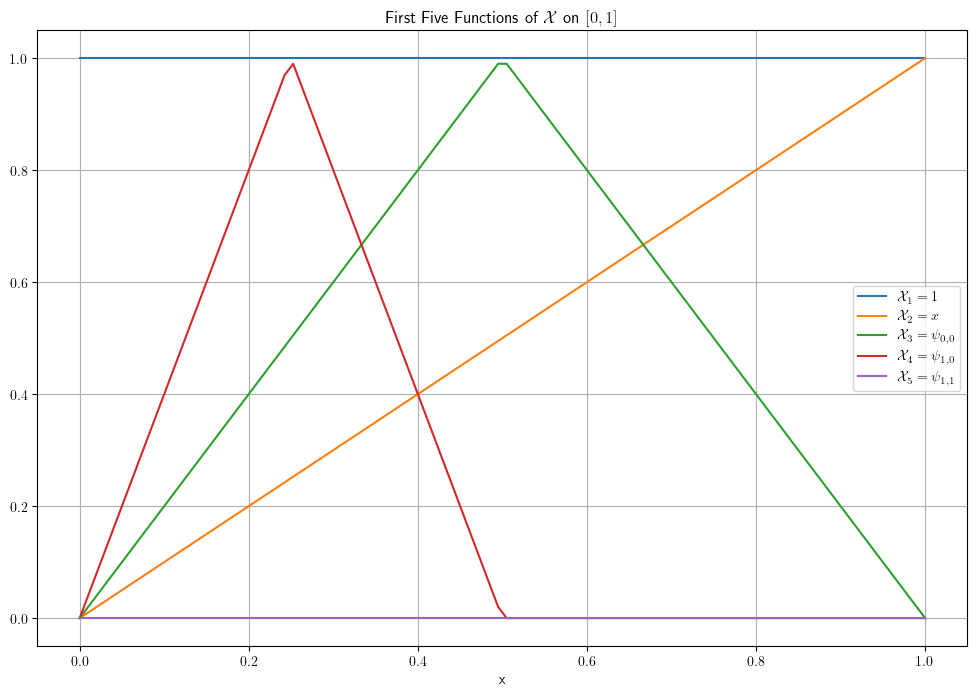
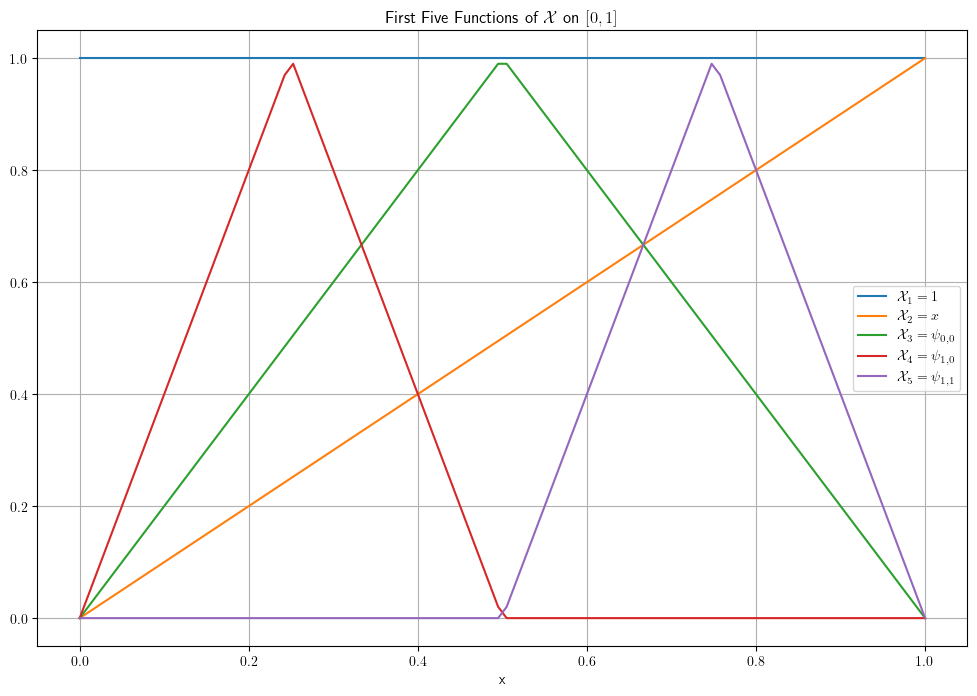
Update on Overleaf.

Changed region(s): [[0.9212, 0.875, 0.9519, 0.9052], [0.7062, 0.0905, 0.7369, 0.1207]]

diff --git a/main.tex b/main.tex
@@ -73,10 +73,48 @@ Assuming that $f \in C^4(0, 1)$, construct an improved quadrature rule which com
     \item $f(x) = \sqrt{x}$
 \end{itemize}
 Compare your numerical results with those obtained from Simpson’s rule – using a cubic approximation on each subinterval, where the cubic is chosen to agree with f at the two endpoints and the midpoint of each subinterval.
+\partbreak
+\begin{solution}
 
+    After some tweaking of coefficients in Python, I found a suitable quadrature rule which only uses slight modifications of Left and Right Reimann sums and scales the same as Simpon's 1/3 composite rule ($O(h^4)$). My proposed quadrature rule, $M_n$, is as follows:
+    \[M_n = \frac{h}{3}\left[\frac{f(0) + f(1)}{2}  + 3\sum_{k = 1}^{n-1}f(k/n)\right]\]
+    Note this is suitably scaled over $[0, 1]$, scaling like terms of the Left and Right Reimann sums by 3, and averaging the end points. The results are given below, where we take $n \to 100$. It seems as though Simpson's rule creates a jagged form of our approximation method, which implies that our proposed quadrature rule scales as Simpon's 1/3 composite rule.
+\end{solution}
+
+\begin{figure}[htbp]
+    \centering
+    \subfigure{\includegraphics[width=0.4\textwidth]{Figures/Problem3 ex.png}}
+    \hfill
+    \subfigure{\includegraphics[width=0.4\textwidth]{Figures/Problem3 sqrtx.png}}
+\end{figure}
+
+\newcommand{\scI}{\mathcal{I}}
+
+\clearpage
 \newpage
 \section{Exercise 4}
 Let $\{v_j\}_{j = 1}^\infty$ be an orthonormal basis of a Hilbert space $\scH$. Let $A$ be a bounded operator from $\scH$ to itself, with bounded inverse. Consider the sequence of vectors $w_j := Av_j$. Is $\{w_j\}_{j = 1}^\infty$ an orthonormal basis? A Schauder basis? If so, can you bound its basis constant?
+\partbreak
+\begin{solution}
+
+    We can see that $w_j = Av_j$ gives us a transformation between $w_j$ and $v_j$. Since $A$ is a bounded operator with bounded inverse, it a continuous operator, it is bijective. Therefore, for any $x \in \scH$, we can write 
+    \begin{align*}    
+        &x = \sum_{i \in \scI} \braket{x}{v_i}v_i = \sum_{i \in \scI} \braket{x}{v_i}A\inv w_i\\
+        &= A\inv\left(\sum_{i \in \scI} \braket{x}{v_i} w_i\right)\\
+        \implies & Ax = \sum_{i \in \scI} \braket{x}{v_i}w_i
+    \end{align*}
+    Since $A$ is bijective, then we can write $Ax = y$ for $y \in \scH$. We can further write
+    \begin{align*}
+        &y = \sum_{i \in \scI} \braket{A\inv y}{A\inv w_i}w_i\\
+        &= \sum_{i \in \scI} \braket{y}{(A\inv)\star A\inv w_i}w_i\\
+        &= \norm{A\inv}_2^2 \sum_{i \in \scI} \braket{y}{w_i}w_i
+    \end{align*}
+    Thus, each vector in $\scH$ can be represented with the $w_j$ vectors, implying that $w_j$ is an orthonormal basis. To prove that it is a Schauder basis, we first note that $v_j$ is a Schauder basis for the Hilbert space $\scH$, since it is an orthonormal basis (here we assume $\scH$ is separable). this implies for any $x \in \scH$, there exists unique coefficients $x_1, ...$ for which 
+    \[x = \sum_{i \in \scI} x_i v_i = \lim_{n \to \infty}\sum_{i = 1}^n x_iv_i\]
+    Since $A$ is bijective, we can multiply through to get 
+    \[Ax = \lim_{n \to \infty}\sum_{i = 1}^n x_iAv_i = \lim_{n \to \infty}\sum_{i = 1}^n x_iw_i\]
+    We can also furthermore write $y = Ax$ for $y \in \scH$. This implies that any $y \in \scH$ is expressible as a linear combination of the $w_i$ components, implying that $w_i$ is a Schauder basis. By the above calculations, we have that $\norm{A\inv}_2 = 1$, therefore, $A\inv$ is a unitary matrix.  
+\end{solution} 
 
 \newcommand{\scX}{\mathcal{X}}
 
@@ -96,14 +134,32 @@ Consider the collection of functions $\scX = \{1, x, \psi_{0, 0}, \psi_{1, 0}, \
 
     I do not like adding hand-written sketches in homework, since I find them to be too messy for any meaningful interpretation. Instead, I have included a plot of the first five functions of $\scX$ in Figure \ref{fig:Exercise5} using Python. We will next show that $\scX$ is a Schauder basis of $C([0, 1])$. That is, we need to show that there exists unique coefficients $\alpha_1, \alpha_2, ...$ for which
     \[v = \sum_{j = 1}^\infty \alpha_j \scX_j \quad \text{for all } v \in C([0, 1]).\]
-    Note that $C([0, 1])$ equipped with the sup-norm is a Banach space, since the space of continuous functions on a compact interval (the interval $[0, 1]$ is closed and bounded) is a Banach Space. This tells us that the problem is well posed. This problem is in essence an existence and uniqueness exercise; we will first show existence. 
+    Note that $C([0, 1])$ equipped with the sup-norm is a Banach space, since the space of continuous functions on a compact interval (the interval $[0, 1]$ is closed and bounded) is a Banach Space. \par
+    
+    \jump
+    Suppose we have a linear combination of $N$ of these functions, which I will denote by $p_N$. Note that, the coefficients of $p_N$ can be chosen such that at the crest of each function $\psi_{i, k}$. We will show then that $p_N \to f$ uniformly on $[0, 1]$. Let $\ep > 0$. Note that $f \in C([0, 1])$, implying it is uniformly continuous. Suppose we have, for some $N_0 \in \N$, we have that for any $|x - y| \leq 2^{-N_0}$, then $|f(x) - f(y)| < \ep$. Note that for $x \in [0, 1]$ and $N \geq N_0$, we have that 
+    \[\frac{k}{2^N} \leq x \leq \frac{k+1}{2^N},\]
+    Note these are the crests of the functions $\psi_{N,k}$ and $\psi_{N, k+1}$ respectively. Denote these two points as $y_1, y_2$. We then have the following:
+    \newpage
+    \begin{align*}
+        |p_N(x) - f(x)| &\leq |p_N(x) - p_N(y_1)| + |p_N(y_1) - f(y_1)| + |f(y_1) - f(x)| &\text{(Triangle Inequality.)}\\
+        &\leq |p_N(y_1) - p_N(y_2)| + |p_N(y_1) - f(y_1)| + |f(y_1) - f(x)| &\text{(By above.)}\\
+        &= |f(y_1) - f(y_2)| + |f(y_1) - f(y_1)| + |f(y_1) - f(x)| &\text{(Agreement of $p_N$ and $f$.)}\\
+        &|f(y_1) - f(y_2)| + |f(y_1) - f(x)| &\text{(Simplifying.)}\\
+        &< \ep &\text{(By assumption.)}
+    \end{align*}
+    This implies that $p_N \to f$ uniformly. Therefore, we have shown that every function in $C([0, 1])$ can be expressed as a linear combination of the $\psi_{i, k}$. To show it is a Schauder basis, we need to show these coefficients are unique. Suppose this is not the case. That is, there exists expansions in this basis for which, 
+    \[f = \sum_{i = 0}^\infty c_i\scX_i = \sum_{i = 0}^\infty a_i\scX_i\]
+    Suppose that after the $N$-th term, these expansions agree, that is, 
+    \[\sum_{i = N}^\infty (c_i - a_i) f_i = 0, \quad \forall x \in [0, 1]\]
+    Since this should hold for all $x \in [0, 1]$, we analyse the $x$ which maximizes the function $f_i$, that is, at the point $\frac{k}{2^M}$, where $f_N = \psi_{M, k}$. We then see that 
+    \[0 = \sum_{i = N}^\infty (c_i - a_i)f_i\left(\frac{k}{2^M}\right) = c_N - a_N\]
+    This implies that $c_N = a_N$, which is a contradiction. Therefore, the expansion is unique, implying that $\psi_{i, k}$ is a Schauder basis. 
 \end{solution}
 
-\newpage
-\vspace{5in}
-\begin{figure}
+\begin{figure}[!h]
     \centering
-    \includegraphics[width = 0.8\textwidth]{Figures/Exercise5.png}
+    \includegraphics[width = 0.425\textwidth]{Figures/Exercise5.png}
     \caption{First five functions of $\scX$ for Exercise 5.}
     \label{fig:Exercise5}
 \end{figure}
@@ -114,16 +170,88 @@ Consider the collection of functions $\scX = \{1, x, \psi_{0, 0}, \psi_{1, 0}, \
 Let $\scH$ be a Hilbert space and let $P, Q: \scH \to \scH$ be two projections. In the following, set $C = i[P, Q] = i(PQ - QP)$. We also assume that $P$ and $Q$ are orthogonal, $i.e.$ $P\star = P$ and $Q\star = Q$.
 \subsection{Exercise 6, part a}
 Find explicit examples of $P$ and $Q$ which do not commute. Make sure to give clear definitions of both them and $\scH$. Sketch a geometric characterization of when this happens. 
+\partbreak
+\begin{solution}
 
+    For an easy example, we examine the space $\R^2$ equipped with the standard inner product, and consider the two linear Projections (in matrix form)
+    \[P = \mqty[1&0\\0&0], \quad Q = \frac{1}{2}\mqty[1&1\\1&1].\]
+    Indeed, these two matrices represent projections on $\R^2$, since 
+    \begin{align*}
+        &P^2 = \mqty[1&0\\0&0]\mqty[1&0\\0&0] = \mqty[1&0\\0&0] = P\\
+        &Q^2 = \frac{1}{4}\mqty[1&1\\1&1]\mqty[1&1\\1&1] = \frac{1}{4}\mqty[2&2\\2&2] = \frac{1}{2}\mqty[1&1\\1&1] = Q.
+    \end{align*}
+    Furthermore, both $P$ and $Q$ are orthogonal, i.e. $P\star = P, Q\star = Q$. We can then say, for any $x, y \in \scH$, 
+    \[\braket{Px}{y} = x\T P\T y = x\T P y = \braket{x}{Py}, \braket{Qx}{y} = x\T Q\T y = x\T Q y = \braket{x}{Qy}.\]
+    Therefore, $P$ and $Q$ are indeed projections. I have included a figure below to demonstrate their action on the Unit circle in $\R^2$. The two operators project onto the vectors (1, 1) and (1, 0), respectively.
+\end{solution}
+\vspace{3mm}
+\begin{figure}[!h]
+    \centering
+    \includegraphics[width = 0.3\textwidth]{Figures/P and Q.png}
+\end{figure}
+
+\renewcommand{\ker}{\text{ker }}
+
+\renewcommand{\range}{\text{range }}
 \newpage
 \subsection{Exercise 6, part b}
 Show that $0 \leq \braket{v}{Pv} \leq 1$ for all $v \in \scH$. 
+\partbreak
+\begin{solution}
+
+    For the lower bound, we use the property of idempotence of Projections,
+    \[\braket{v}{Pv} = \braket{v}{P^2 v} = \braket{Pv}{Pv} = \norm{Pv}^2 \geq 0.\]
+    Next, fix $v \in \scH$. Since $P$ is an orthogonal projection on $\scH$, we have that $\scH = \range P \oplus  \ker P$. Therefore, there exists $x \in \range P, y \in \ker P$ for which $v = x + y$. Then, 
+    \[\braket{v}{Pv} = \braket{x+y}{x} = \braket{x}{x} + \braket{y}{x} = \norm{x}^2.\]
+    Note that $\braket{y}{x} = 0$, since 
+    \[\braket{y}{x} = \braket{y}{Px} = \braket{Py}{x} = \braket{0}{x} = 0.\]
+    Therefore, we have that
+    \[\frac{\braket{Px}{Px}}{\braket{x}{x}} = \frac{\norm{Px}^2}{\norm{x}^2}= 1\]
+    But $\norm{v} \geq \norm{x}$, and since $\norm{Px} = \norm{Pv}$, we have
+    \[\frac{\norm{Pv}}{\norm{v}} \leq 1. \]
+    Here, we will assume that $\norm{v} = 1$ since for any non unitary $v \in \scH$, we can repeat the process for the vector $w = \alpha v$, where $\alpha = 1/\norm{v}$. Squaring both sides then gives us
+    \[\norm{Pv}^2 \leq 1 \implies \braket{Pv}{Pv} \leq 1 \iff \braket{v}{Pv} \leq 1.\]
+    The absolute value can be dropped on the above process, since we have shown that $\braket{v}{Pv} \geq 0$. Thus, the statement has been shown.
+\end{solution}
+
 
 \newpage
 \subsection{Exercise 6, part c}
-For any $v \in \scH$, set $\barP(v) = \braket{v}{Pv}, \barQ(v) = \braket{v}{Qv}, \sigma^2_P(v) = \braket{v}{(P - \barP \id)^2}$ and $\sigma_Q^2 = \braket{v}{(Q - \barQ \id)^2 v}$. Show that $\sigma_P, \sigma_Q \leq \norm{v} / 2$. Here, $\id$ is the identity operator on $\scH$.  
+For any $v \in \scH$, set $\barP(v) = \braket{v}{Pv}, \barQ(v) = \braket{v}{Qv}, \ \sigma^2_P(v) = \braket{v}{(P - \barP \id)^2 v}$ and $\sigma_Q^2 = \braket{v}{(Q - \barQ \id)^2 v}$. Show that $\sigma_P, \sigma_Q \leq \norm{v} / 2$. Here, $\id$ is the identity operator on $\scH$.  
+\partbreak
+\begin{solution}
+
+    Note that the above property need to be shown only for one projection, via symmetry of their respective definitions. I wasn't able to get exactly the form given, but I got something very similar.
+    \tightalignbreak
+    \begin{align*}
+        &\sigma_P^2 = \braket{v}{(P - \barP \id)^2v} &\text{(Given.)}\\
+        &= \braket{v}{P^2v - 2\barP Pv + \barP^2 v} &\text{(Expanding.)}\\
+        &= \braket{v}{P^2v} - 2\barP \braket{v}{Pv} + \barP^2 \braket{v}{v} &\text{(Expanding.)}\\
+        &= \norm{Pv}^2 - 2\barP \braket{v}{Pv} + \barP^2 \norm{v}^2 &\text{(Projection Properties.)}\\
+        &= \norm{Pv}^2 - 2\barP\norm{Pv}^2 + \barP^2\norm{v}^2 &\text{(Projection Properties.)}\\
+        &= \norm{v}^2\left(\frac{\norm{Pv}^2}{\norm{v}^2} - 2\barP\frac{\norm{Pv}^2}{\norm{v}^2} + \barP^2\right) &\text{(Grouping.)}\\
+        &\leq \norm{v}^2 (1 - 2\barP + \barP^2) &\text{(By last part.)}\\
+        &= \norm{v}^2(1 - \barP)^2 &\text{(Grouping.)}\\
+        \implies &\sigma_P \leq \norm{v}(1 - \barP) &\text{(Taking square root.)}
+    \end{align*}\vspace{-12mm}\alignbreak
+    Note that the absolute value can be dropped from the last line since from part b, $ 0 \leq \barP \leq 1$. My only idea would be to break up $v$ into $v = x + y$ as in the last part, and since $\norm{Pv}^2 = \norm{x}^2$, we can say that $\norm{v} \geq \norm{Pv} = \norm{x}$ (By Triangle inequality). This does not guarantee however, that $\barP \geq 1/2$, which would bridge the gap between the two. However we can say for $v \in \scH$ for which $\norm{x} \geq 1/2$, then this would hold. This is assuming that $\norm{v} = 1$, by rescaling.  
+\end{solution}
 
 \newpage
 \subsection{Exercise 6, part d}
 If $C$ is the commuatator of $P$ and $Q$, show that $\frac{1}{4}|\braket{v}{Cv}|^2 \leq \sigma_P^2(v) \sigma_Q^2(v).$ Argue that $\norm{C} \leq 1/2$. For the last part, you can use without proof that $\norm{C} = \sup_{\norm{v}\leq 1} |\braket{v}{Cv}|$ (this follows from the fact that $C$ is Hermitian).
+\partbreak
+\begin{solution}
+
+    I could not get a satisfying answer to this. I will provide all that I have gotten.
+    \tightalignbreak
+    \begin{align*}
+        &\frac{1}{4}|\braket{v}{Cv}|^2 = \frac{1}{4}\braket{v}{Cv}\braket{v}{C\star v} &\text{(Given.)}\\
+        &= \frac{1}{4}\braket{v}{i(PQ - QP)v}\braket{v}{-i(PQ-QP)v} &\text{(Given.)}\\
+        &= (\braket{v}{PQv} - \braket{v}{QPv})(\braket{v}{PQv} - \braket{v}{QPv})&\text{(Expanding.)}\\
+        &= \braket{v}{PQv}^2 + \braket{v}{QPv}^2 - 2\braket{v}{QPv}\braket{v}{PQv} &\text{(Simplifying.)}
+    \end{align*}\vspace{-12mm}\alignbreak
+    
+    Here is where I am stuck. I could take the approach that $\range QP \subseteq \range P$, and take a bound involving the first two terms, but I would then get stuck on the last term, involving the cross projections.  
+\end{solution}
 \end{document}
